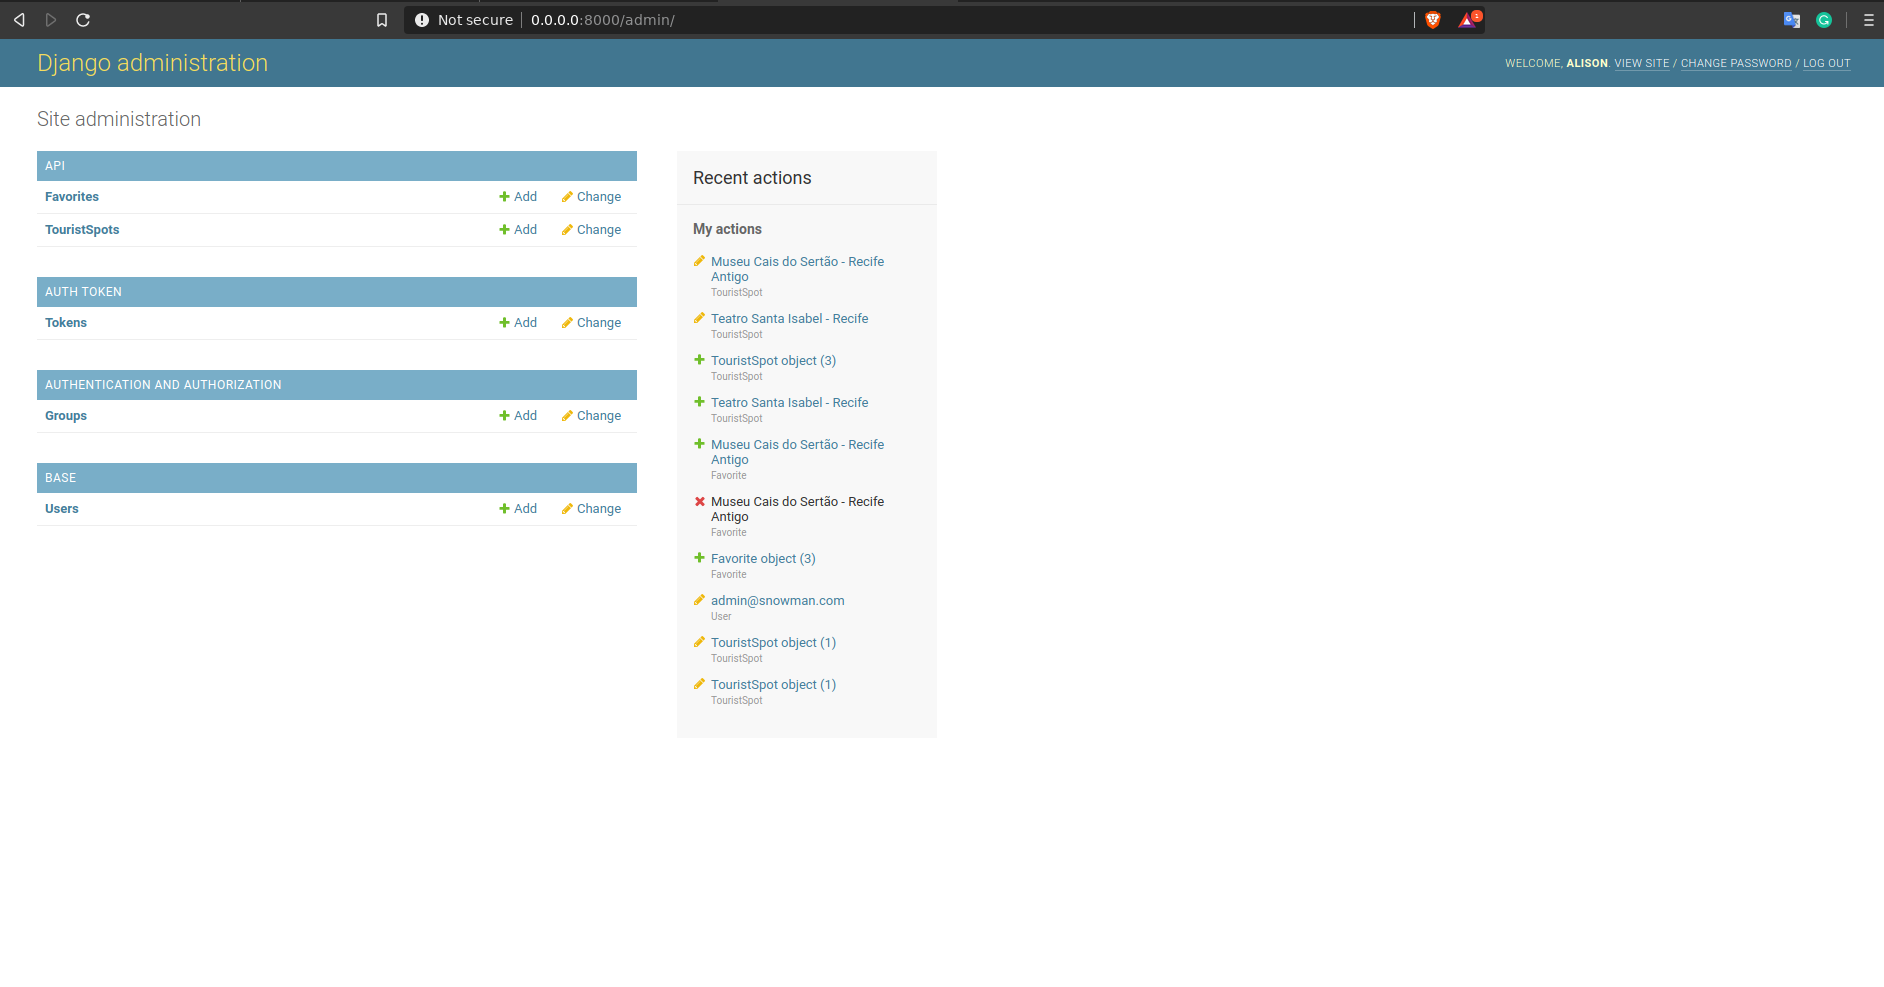
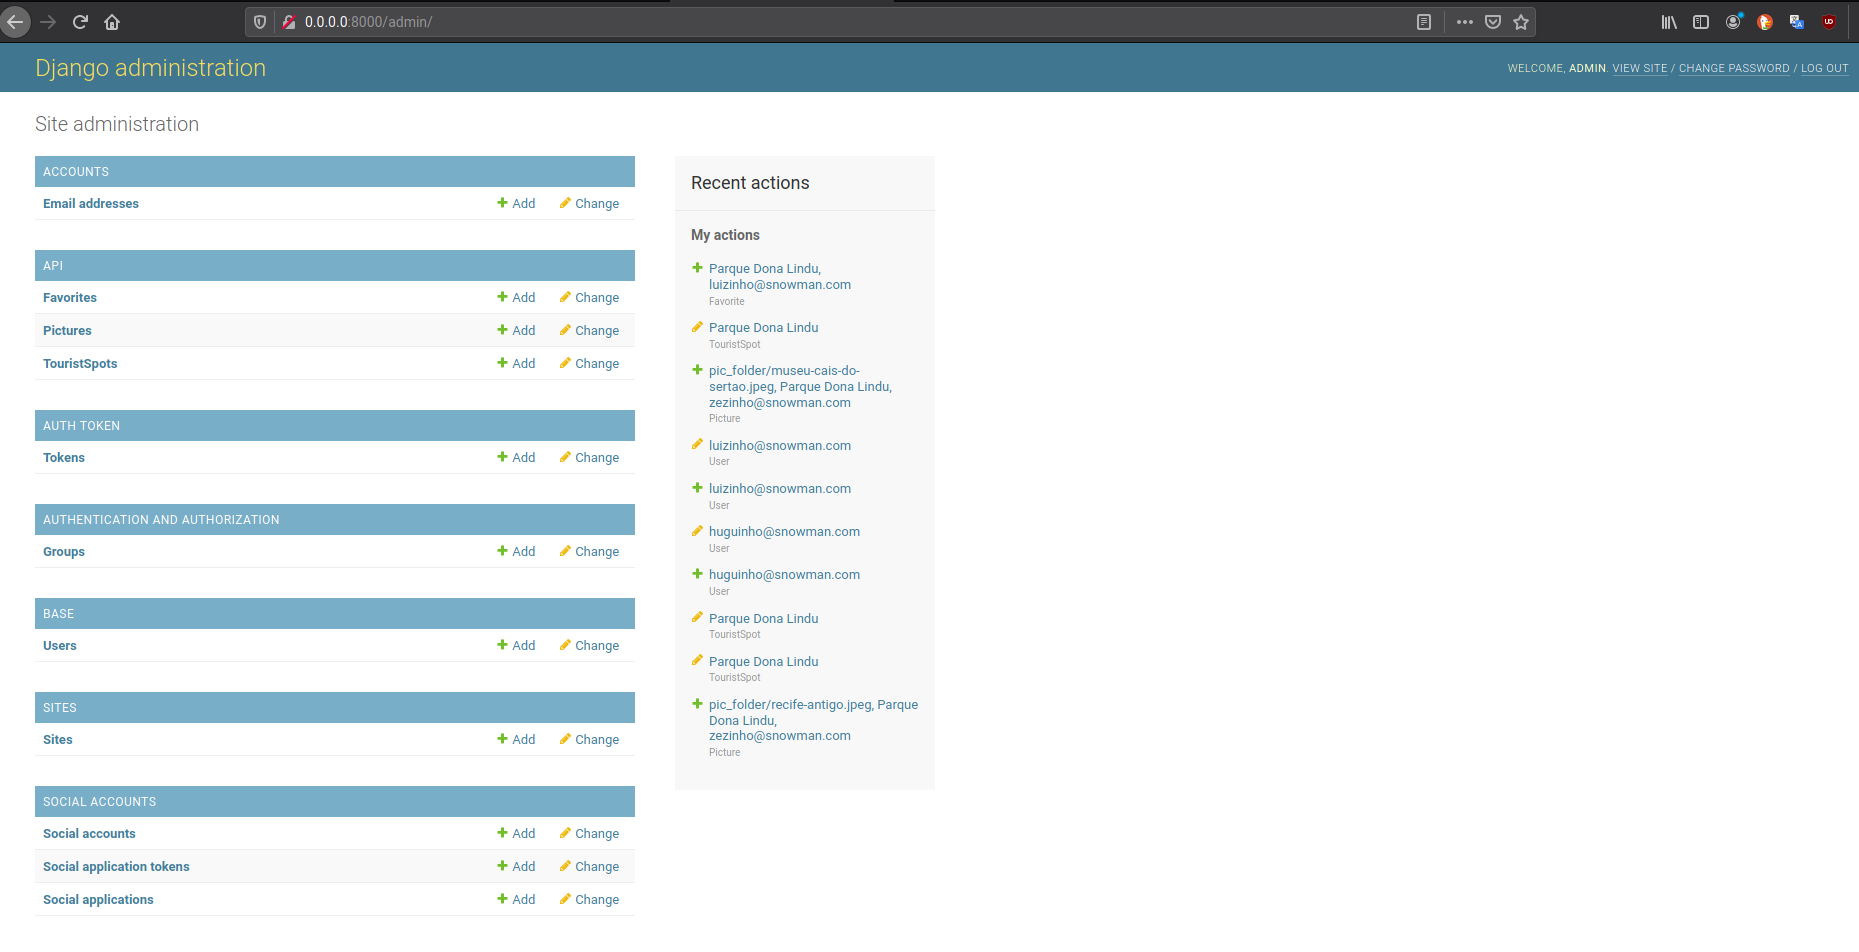
Updated information on README

diff --git a/README.md b/README.md
@@ -47,7 +47,7 @@ django-cors-headers = "^3.4.0"
 Pillow = "^7.2.0"
 djangorestframework-gis = "^0.15"
 django-filter = "^2.3.0"
-dj-rest-auth = "^1.1.0"
+dj-rest-auth = "^1.1.1"
 django-allauth = "^0.42.0"
 
 [tool.poetry.dev-dependencies]
@@ -153,6 +153,7 @@ API Root:
 ```console
 http://0.0.0.0:8000/api/v1/touristspots/
 http://0.0.0.0:8000/api/v1/favorites/
+http://0.0.0.0:8000/api/v1/pictures/
 ```
 
 ![content_example](readme-images/5_content_example.png)
@@ -175,51 +176,49 @@ Admin Touristspots Detail:
 ![admin_touristspots_detail](readme-images/8_admin_touristspots_detail.png)
 
 Admin Favorite
-![admin_favorite](readme-images/9_admin_favorite.png)
+![admin_favorite](readme-images/9_1_admin_favorite.png)
+
+Admin Picture
+![admin_favorite](readme-images/9_2_admin_picture.png)
 
 Example of json created:
 
 ```json
 {
-  "count": 3,
+  "count": 1,
   "next": null,
   "previous": null,
   "results": [
     {
-      "id": 3,
-      "picture": "http://0.0.0.0:8000/media/pic_folder/parque-dona-lindu.jpeg",
+      "id": 1,
       "name": "Parque Dona Lindu",
       "geographical_location": {
         "type": "Point",
-        "coordinates": [-34.9040816111268, -8.141266676521594]
+        "coordinates": [-34.90402578821604, -8.14141043176408]
       },
       "category": "PARK",
-      "created": "2020-07-26T13:47:28.802659Z",
-      "modified": "2020-07-26T13:47:28.802749Z"
-    },
-    {
-      "id": 2,
-      "picture": "http://0.0.0.0:8000/media/pic_folder/teatro-santa-isabel.jpeg",
-      "name": "Teatro Santa Isabel - Recife",
-      "geographical_location": {
-        "type": "Point",
-        "coordinates": [-34.878362412362975, -8.060722137203351]
-      },
-      "category": "THEATER",
-      "created": "2020-07-26T02:55:29.902770Z",
-      "modified": "2020-07-26T13:49:09.173864Z"
-    },
-    {
-      "id": 1,
-      "picture": "http://0.0.0.0:8000/media/pic_folder/museu-cais-do-sertao.jpeg",
-      "name": "Museu Cais do Sertão - Recife Antigo",
-      "geographical_location": {
-        "type": "Point",
-        "coordinates": [-34.87008511534667, -8.060716825786317]
-      },
-      "category": "MUSEUM",
-      "created": "2020-07-24T20:17:07.721895Z",
-      "modified": "2020-07-26T13:49:29.112867Z"
+      "pictures": [
+        {
+          "id": 3,
+          "picture": "http://0.0.0.0:8000/media/pic_folder/parque-dona-lindu.jpeg",
+          "tourist_spot": "Parque Dona Lindu",
+          "user": "Zezinho"
+        },
+        {
+          "id": 4,
+          "picture": "http://0.0.0.0:8000/media/pic_folder/recife-antigo.jpeg",
+          "tourist_spot": "Parque Dona Lindu",
+          "user": "Zezinho"
+        },
+        {
+          "id": 5,
+          "picture": "http://0.0.0.0:8000/media/pic_folder/museu-cais-do-sertao.jpeg",
+          "tourist_spot": "Parque Dona Lindu",
+          "user": "Zezinho"
+        }
+      ],
+      "created": "2020-08-09T02:49:48.523116Z",
+      "modified": "2020-08-09T14:28:59.968699Z"
     }
   ]
 }
